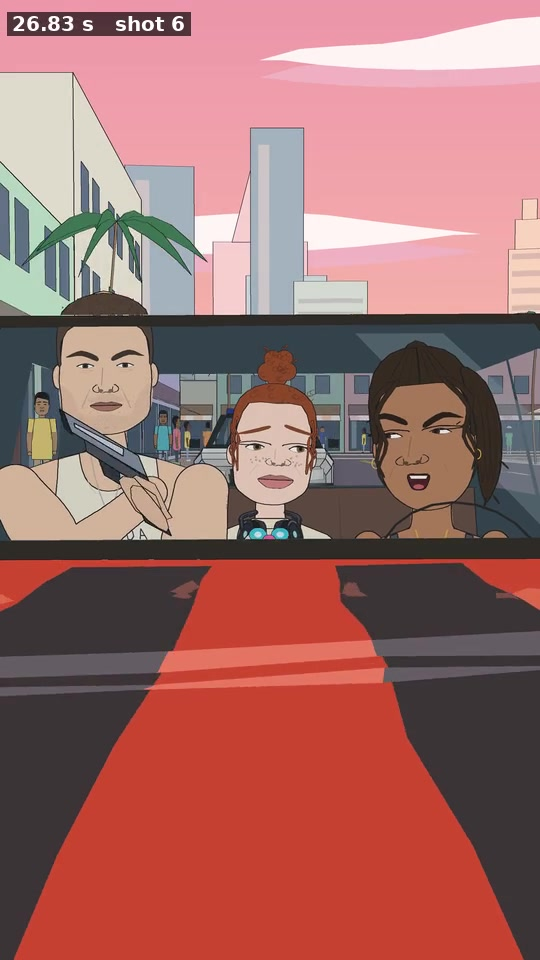
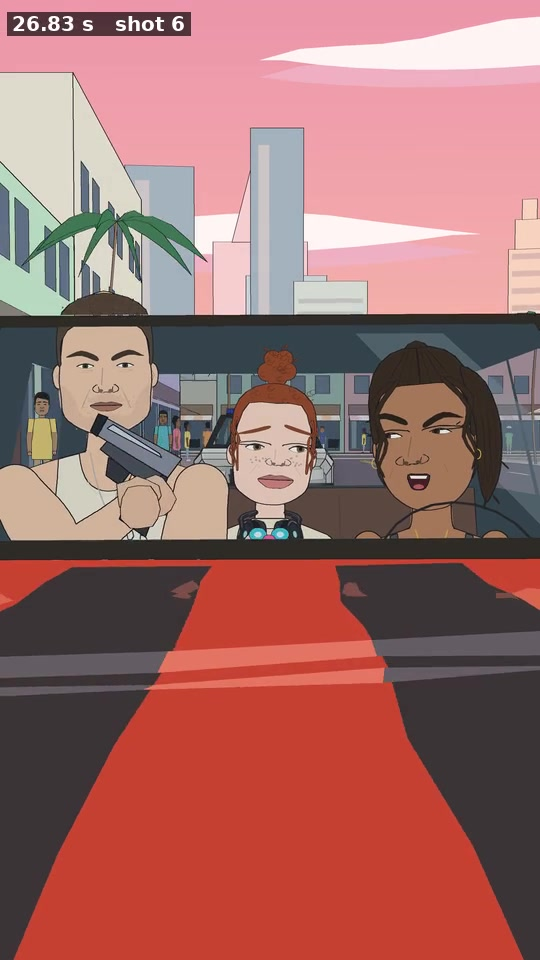
GTA 33d: clip critiqued (r45), handover updated
Claude-Session: https://claude.ai/code/session_01GznaAV1mWd7L7gkwRVCMXc

Changed region(s): [[0.1185, 0.4062, 0.3259, 0.5625]]

diff --git a/notes/grand-theft-autism.md b/notes/grand-theft-autism.md
@@ -206,7 +206,9 @@ Locked by Sam: every camera and beat of shots 1-8 as in animatic v3; script; sho
 ## Where things stand, the ANIMATIC strand (22 Nov, chat 33d, Opus medium): v4 notes fixed, clip sent
 - Rules that bite next: Fix the drawing, never the shot; Seeing like Sam 3 (the pop check to propose); rule 30.
 - Locked by Sam: every camera and beat of shots 1-8 as in v3; shot 4's Jason untouched (3D rebuild, other chats).
-- Done: N1 street no longer pops out; N2 pistol in shots 5-8; light-bar glow on the bar. Clip 22.3-38.5 sent (2.8 MB).
+- Done: N1 street no longer pops out; N2 pistol in shots 5-8 (side-on to the lens; shot 7's hand path beside his
+  face, critiques r44 p1-p2); light-bar glow on the bar. Clip 22.3-38.5 sent (2.8 MB), body check named, critique r45.
+  Critique r45 open: the raised pistol beside his cheek (30-34 s) can read as a phone; her teal headphones; old N3 set.
   N3 rest named in "Chat 33d" above (skin/face, Lucia face, necks/bonnet, ONIDA, shot 4 items).
 - Needs Sam: Q1 shot 3 pistol (Y once shot 4's opening shows it too / N); Q2 Y = animatic v5 from this clip.
 - Next: on Sam's Y, chat 33e, Sonnet: animatic v5 `grand_theft_autism.py OUT --from 7.0` (shot 1 reused), audio from
